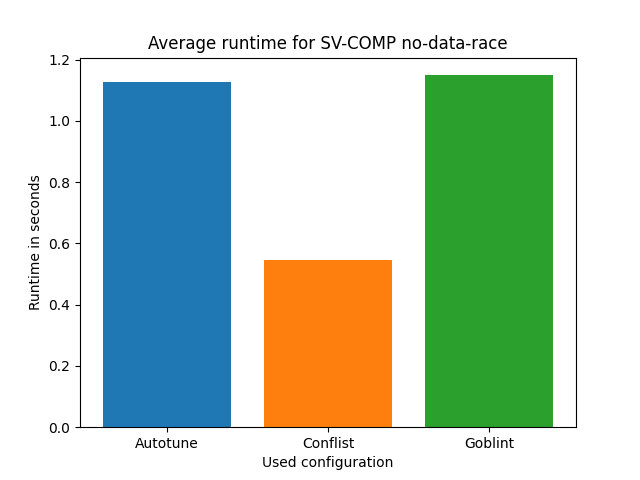
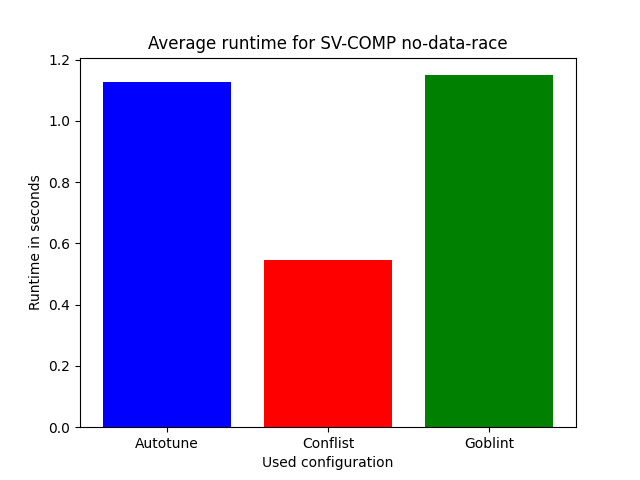
update

diff --git a/scripts/restart/graphs.py b/scripts/restart/graphs.py
@@ -1,9 +1,9 @@
-from turtle import color
 import matplotlib.pyplot as plt
 import numpy as np
 import yaml
 import os
 
+# no-data-race graphs
 def average_datarace():
     x1,y1,z1, _, _ = np.genfromtxt(os.path.dirname(__file__) + '/data/Autotune_svcomp_datarace_timings.txt', delimiter=',', unpack=True, dtype=None)
     x2,y2,z2, _, _ = np.genfromtxt(os.path.dirname(__file__) + '/data/conflist_svcomp_datarace_timings.txt', delimiter=',', unpack=True, dtype=None)
@@ -52,8 +52,119 @@ def goblint_datarace():
     plt.savefig(os.path.dirname(__file__) + "/graphs/goblint_datarace.png")
 
 
-def main():
-    goblint_datarace()
+# no-overflow graphs
+def average_nooverflow():
+    x1,y1,z1, _, _ = np.genfromtxt(os.path.dirname(__file__) + '/data/Autotune_svcomp_nooverflow_timings.txt', delimiter=',', unpack=True, dtype=None)
+    x2,y2,z2, _, _ = np.genfromtxt(os.path.dirname(__file__) + '/data/conflist_svcomp_nooverflow_timings.txt', delimiter=',', unpack=True, dtype=None)
+    x3,y3,z3 = np.genfromtxt(os.path.dirname(__file__) + '/data/goblint_svcomp_nooverflow_timings.txt', delimiter=',', unpack=True, dtype=None)
+
+    ax = plt.subplot(111)
+    ax.set_title('Average runtime for SV-COMP no-overflow')
+    ax.set_ylabel('Runtime in seconds')
+    ax.set_xlabel('Used configuration')
+    ax.bar('Autotune', np.average(z1), color='b', align='center')
+    ax.bar('Conflist', np.average(z2), color='r', align='center')
+    ax.bar('Goblint', np.average(z3), color='g', align='center')
+    plt.savefig(os.path.dirname(__file__) + "/graphs/average_nooverflow.png")
     
+
+def autotune_nooverflow():
+    x1,y1,z1, _, _ = np.genfromtxt(os.path.dirname(__file__) + '/data/Autotune_svcomp_nooverflow_timings.txt', delimiter=',', unpack=True, dtype=None)
+    ax = plt.subplot(111)
+    ax.set_title('Measured runtime for autotune on SV-COMP no-overflow')
+    ax.set_ylabel('Runtime in seconds')
+    ax.set_xlabel('Analyzed file')
+    ax.set_ylim([0,5])
+    ax.bar(x1, z1, color='b', align='center')
+    plt.savefig(os.path.dirname(__file__) + "/graphs/autotune_nooverflow.png")
+
+
+def conflist_nooverflow():
+    x1,y1,z1, _, _ = np.genfromtxt(os.path.dirname(__file__) + '/data/conflist_svcomp_nooverflow_timings.txt', delimiter=',', unpack=True, dtype=None)
+    ax = plt.subplot(111)
+    ax.set_title('Measured runtime for conflist on SV-COMP no-overflow')
+    ax.set_ylabel('Runtime in seconds')
+    ax.set_xlabel('Analyzed file')
+    ax.set_ylim([0,5])
+    ax.bar(x1, z1, color='r', align='center')
+    plt.savefig(os.path.dirname(__file__) + "/graphs/conflist_nooverflow.png")
+    
+
+def goblint_nooverflow():
+    x1,y1,z1 = np.genfromtxt(os.path.dirname(__file__) + '/data/goblint_svcomp_nooverflow_timings.txt', delimiter=',', unpack=True, dtype=None)
+    ax = plt.subplot(111)
+    ax.set_title('Measured runtime for goblint on SV-COMP no-overflow')
+    ax.set_ylabel('Runtime in seconds')
+    ax.set_xlabel('Analyzed file')
+    ax.set_ylim([0,5])
+    ax.bar(x1, z1, color='g', align='center')
+    plt.savefig(os.path.dirname(__file__) + "/graphs/goblint_nooverflow.png")
+
+#  unreach-call graphs
+def average_unreachcall():
+    x1,y1,z1, _, _ = np.genfromtxt(os.path.dirname(__file__) + '/data/Autotune_svcomp_unreachcall_timings.txt', delimiter=',', unpack=True, dtype=None)
+    x2,y2,z2, _, _ = np.genfromtxt(os.path.dirname(__file__) + '/data/conflist_svcomp_unreachcall_timings.txt', delimiter=',', unpack=True, dtype=None)
+    x3,y3,z3 = np.genfromtxt(os.path.dirname(__file__) + '/data/goblint_svcomp_unreachcall_timings.txt', delimiter=',', unpack=True, dtype=None)
+
+    ax = plt.subplot(111)
+    ax.set_title('Average runtime for SV-COMP unreach-call')
+    ax.set_ylabel('Runtime in seconds')
+    ax.set_xlabel('Used configuration')
+    ax.bar('Autotune', np.average(z1), color='b', align='center')
+    ax.bar('Conflist', np.average(z2), color='r', align='center')
+    ax.bar('Goblint', np.average(z3), color='g', align='center')
+    plt.savefig(os.path.dirname(__file__) + "/graphs/average_unreachcall.png")
+    
+
+def autotune_unreachcall():
+    x1,y1,z1, _, _ = np.genfromtxt(os.path.dirname(__file__) + '/data/Autotune_svcomp_unreachcall_timings.txt', delimiter=',', unpack=True, dtype=None)
+    ax = plt.subplot(111)
+    ax.set_title('Measured runtime for autotune on SV-COMP unreach-call')
+    ax.set_ylabel('Runtime in seconds')
+    ax.set_xlabel('Analyzed file')
+    ax.set_ylim([0,5])
+    ax.bar(x1, z1, color='b', align='center')
+    plt.savefig(os.path.dirname(__file__) + "/graphs/autotune_unreachcall.png")
+
+
+def conflist_unreachcall():
+    x1,y1,z1, _, _ = np.genfromtxt(os.path.dirname(__file__) + '/data/conflist_svcomp_unreachcall_timings.txt', delimiter=',', unpack=True, dtype=None)
+    ax = plt.subplot(111)
+    ax.set_title('Measured runtime for conflist on SV-COMP unreach-call')
+    ax.set_ylabel('Runtime in seconds')
+    ax.set_xlabel('Analyzed file')
+    ax.set_ylim([0,5])
+    ax.bar(x1, z1, color='r', align='center')
+    plt.savefig(os.path.dirname(__file__) + "/graphs/conflist_unreachcall.png")
+    
+
+def goblint_unreachcall():
+    x1,y1,z1 = np.genfromtxt(os.path.dirname(__file__) + '/data/goblint_svcomp_unreachcall_timings.txt', delimiter=',', unpack=True, dtype=None)
+    ax = plt.subplot(111)
+    ax.set_title('Measured runtime for goblint on SV-COMP unreach-call')
+    ax.set_ylabel('Runtime in seconds')
+    ax.set_xlabel('Analyzed file')
+    ax.set_ylim([0,5])
+    ax.bar(x1, z1, color='g', align='center')
+    plt.savefig(os.path.dirname(__file__) + "/graphs/goblint_unreachcall.png")
+
+
+def main():
+    #autotune_datarace()
+    #conflist_datarace()
+    #goblint_datarace()
+    #average_datarace()
+
+    #autotune_nooverflow()
+    #conflist_nooverflow()
+    #goblint_nooverflow()
+    #average_nooverflow()
+
+    #autotune_unreachcall()
+    #conflist_unreachcall()
+    #goblint_unreachcall()
+    #average_unreachcall()
+    return
+
 if __name__ == "__main__":
     main()

diff --git a/scripts/restart/restart.py b/scripts/restart/restart.py
@@ -15,8 +15,12 @@ def parser():
     parser.add_argument('-a', '--autotune', action='store_true', help='Auto adjust first config after every restart for LIMIT runs or RUNTIME seconds.')
     parser.add_argument('--a_limit', type=int, metavar='LIMIT', default=2, help='limit how many iterations autotune is used for.')
     parser.add_argument('--spec', metavar='property.prp', help='Path or string for a specification for SV-COMP.')
+    parser.add_argument('--version', action='store_true', help='Print Goblint version information.')
+    parser.add_argument('--architecture', help='Architecture information to pass to Gobilnt.')
+    parser.add_argument('--witness.yaml.validate', help='Architecture information to pass to Gobilnt.')
+    parser.add_argument('--witness.yaml.unassume', help='Architecture information to pass to Gobilnt.')
     parser.add_argument('-c','--conf', nargs='+', help='configurations to be used.')
-    parser.add_argument('-f','--file', required=True, help='file to be analyzed.')
+    parser.add_argument('-f','--file', help='file to be analyzed.')
 
     args = parser.parse_args()
     assert args.timeout > 0, "Timeout must be a positive integer."
@@ -28,35 +32,40 @@ def handler(signum, frame):
     print("Restart time limit reached!")
     raise Exception("timeout")
 
-def loop(conf, file, spec, autotune, runtime, timeout, runcount, verbose, timing=False):
+def loop(args, timing=False):
     firstrun = True
     firstrunTime = 0.0
-    error_message = "Error" if spec == None else "SV-COMP result: unknown"
+    error_message = "Error" if args.spec == None else "SV-COMP result: unknown"
     restart = "true"
     last_output = "empty"
 
+    runcount = args.a_limit if args.autotune else len(args.conf)
+
     # total allowed runtime, print last results if runtime is reached
     signal.signal(signal.SIGALRM, handler)
-    signal.alarm(runtime)
+    signal.alarm(args.runtime)
 
     # start of restart loop
     try:
         for i in range(runcount):
             # set loop args
-            if autotune and i > 0:
+            if args.autotune and i > 0:
                 c = "scripts/restart/autotune.conf"
             else:
-                c = conf[i]
+                c = args.conf[i]
 
             if i >= runcount - 1:
                 restart = "false"
             if i > 0:
                 firstrun = False
 
-            gob_args = [analyzer_path, '--set', 'restart.enabled', restart, '--set', 'restart.timeout', str(timeout), '--conf', c, file]
-            if verbose: gob_args.append("-v")
-            if autotune and i > 0: gob_args.extend(["--set", "restart.autotune", "true"])
-            if spec != None: gob_args.extend(["--set", "ana.specification", spec])
+            gob_args = [analyzer_path, '--set', 'restart.enabled', restart, '--set', 'restart.timeout', str(args.timeout), '--conf', c, args.file]
+            if args.verbose: gob_args.append("-v")
+            if args.autotune and i > 0: gob_args.extend(["--set", "restart.autotune", "true"])
+            if args.spec != None: gob_args.extend(["--set", "ana.specification", args.spec])
+            if args.architecture != None: gob_args.extend(["--set", "exp.architecture", args.architecture])
+            if getattr(args, "witness.yaml.validate") != None: gob_args.extend(["--set", "witness.yaml.validate", getattr(args, "witness.yaml.validate")])
+            if getattr(args, "witness.yaml.unassume") != None: gob_args.extend(["--set", "witness.yaml.unassume", getattr(args, "witness.yaml.unassume")])
 
             # call goblint
             print("Current configuration: " + c)
@@ -84,9 +93,11 @@ def loop(conf, file, spec, autotune, runtime, timeout, runcount, verbose, timing
 def main():
     args = parser()
 
-    runcount = args.a_limit if args.autotune else len(args.conf)
+    if args.version:
+        result = subprocess.run([analyzer_path, "--version"])
+        return
 
-    loop(args.conf, args.file, args.spec, args.autotune, args.runtime, args.timeout, runcount, args.verbose)
+    loop(args)
 
 
 if __name__ == "__main__":
